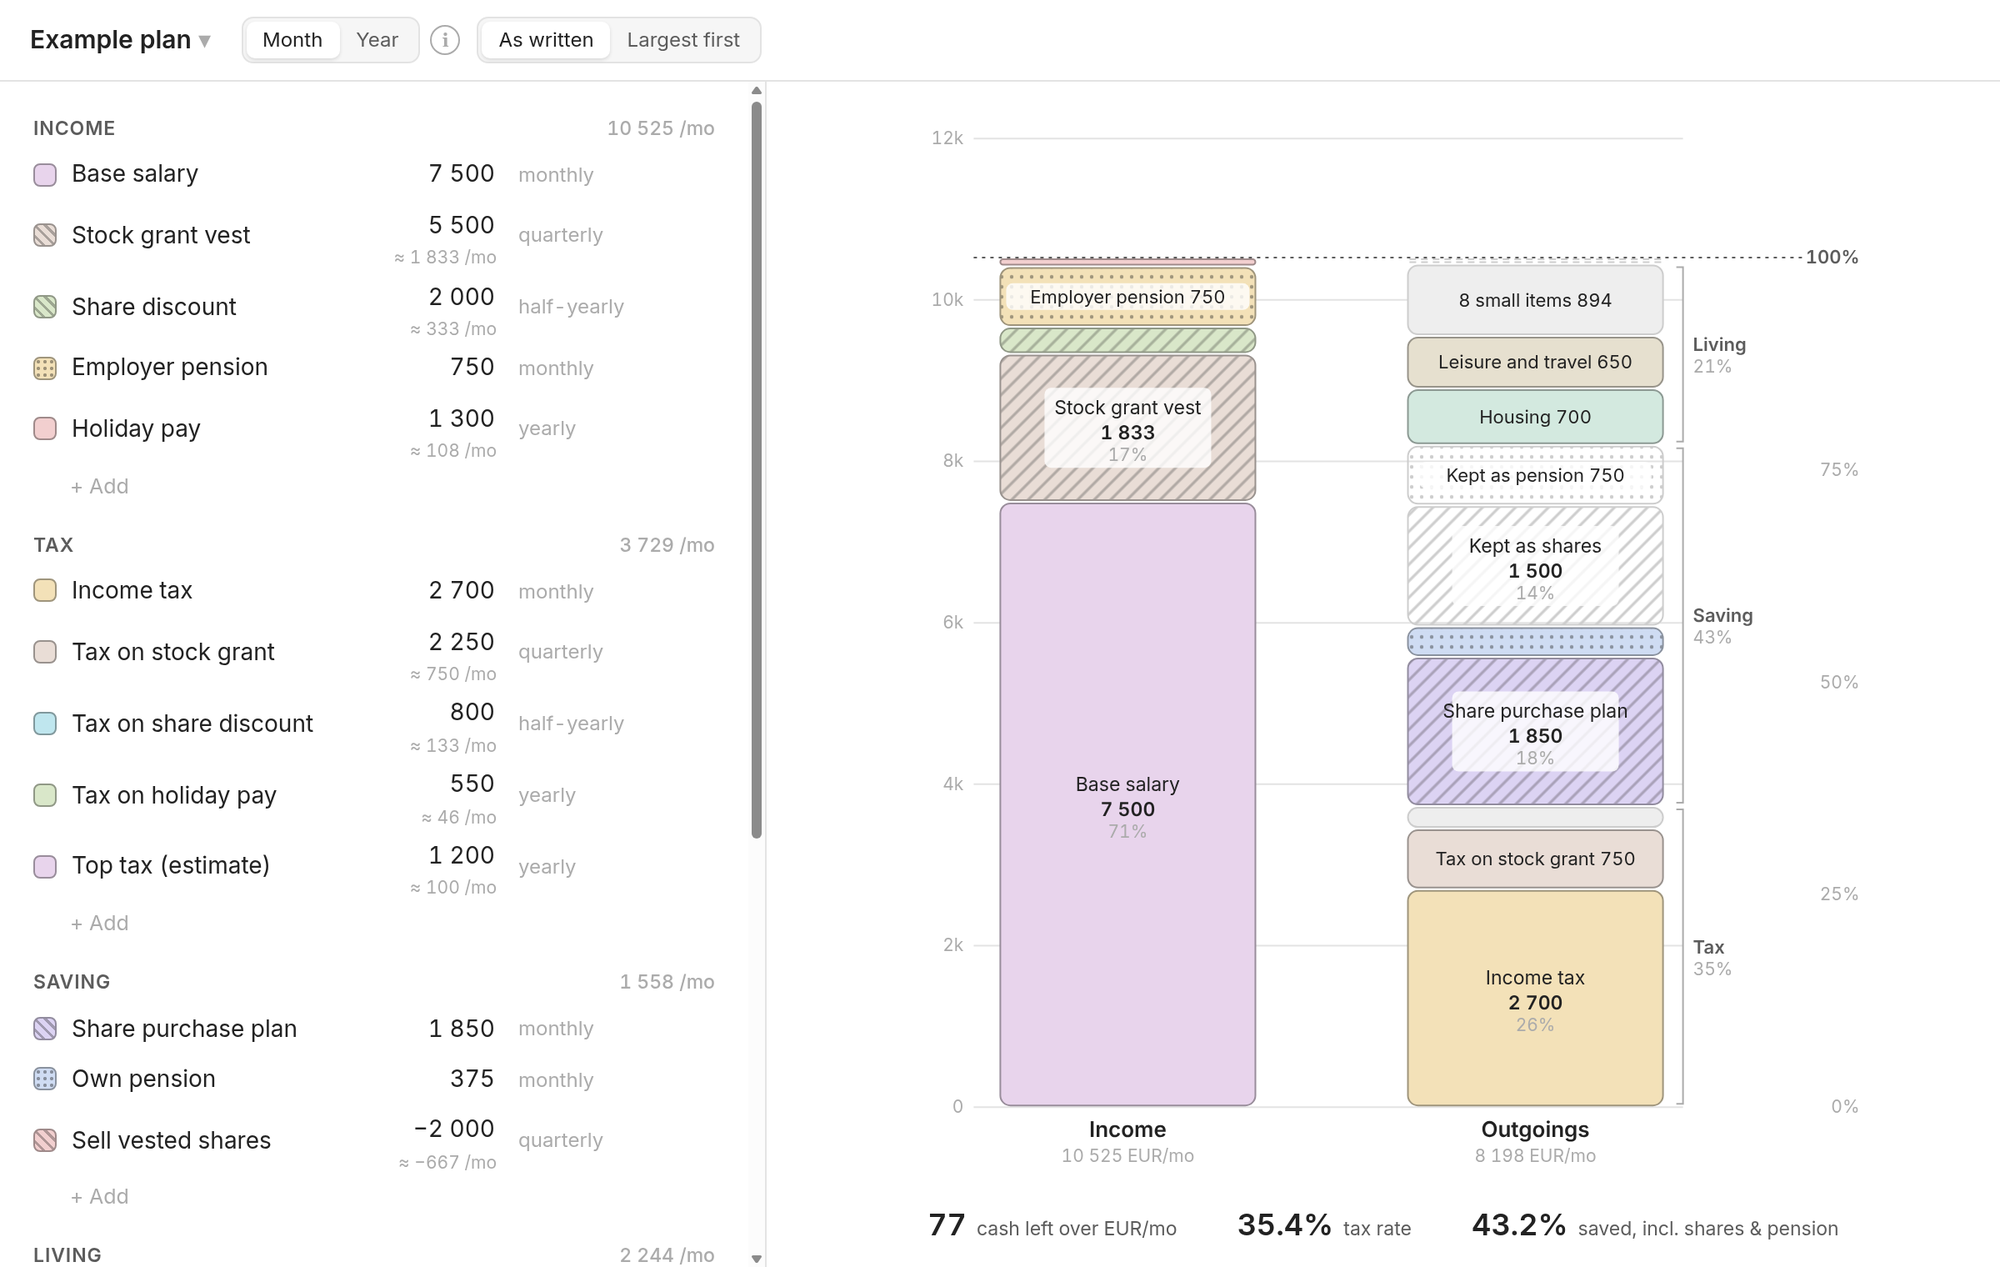
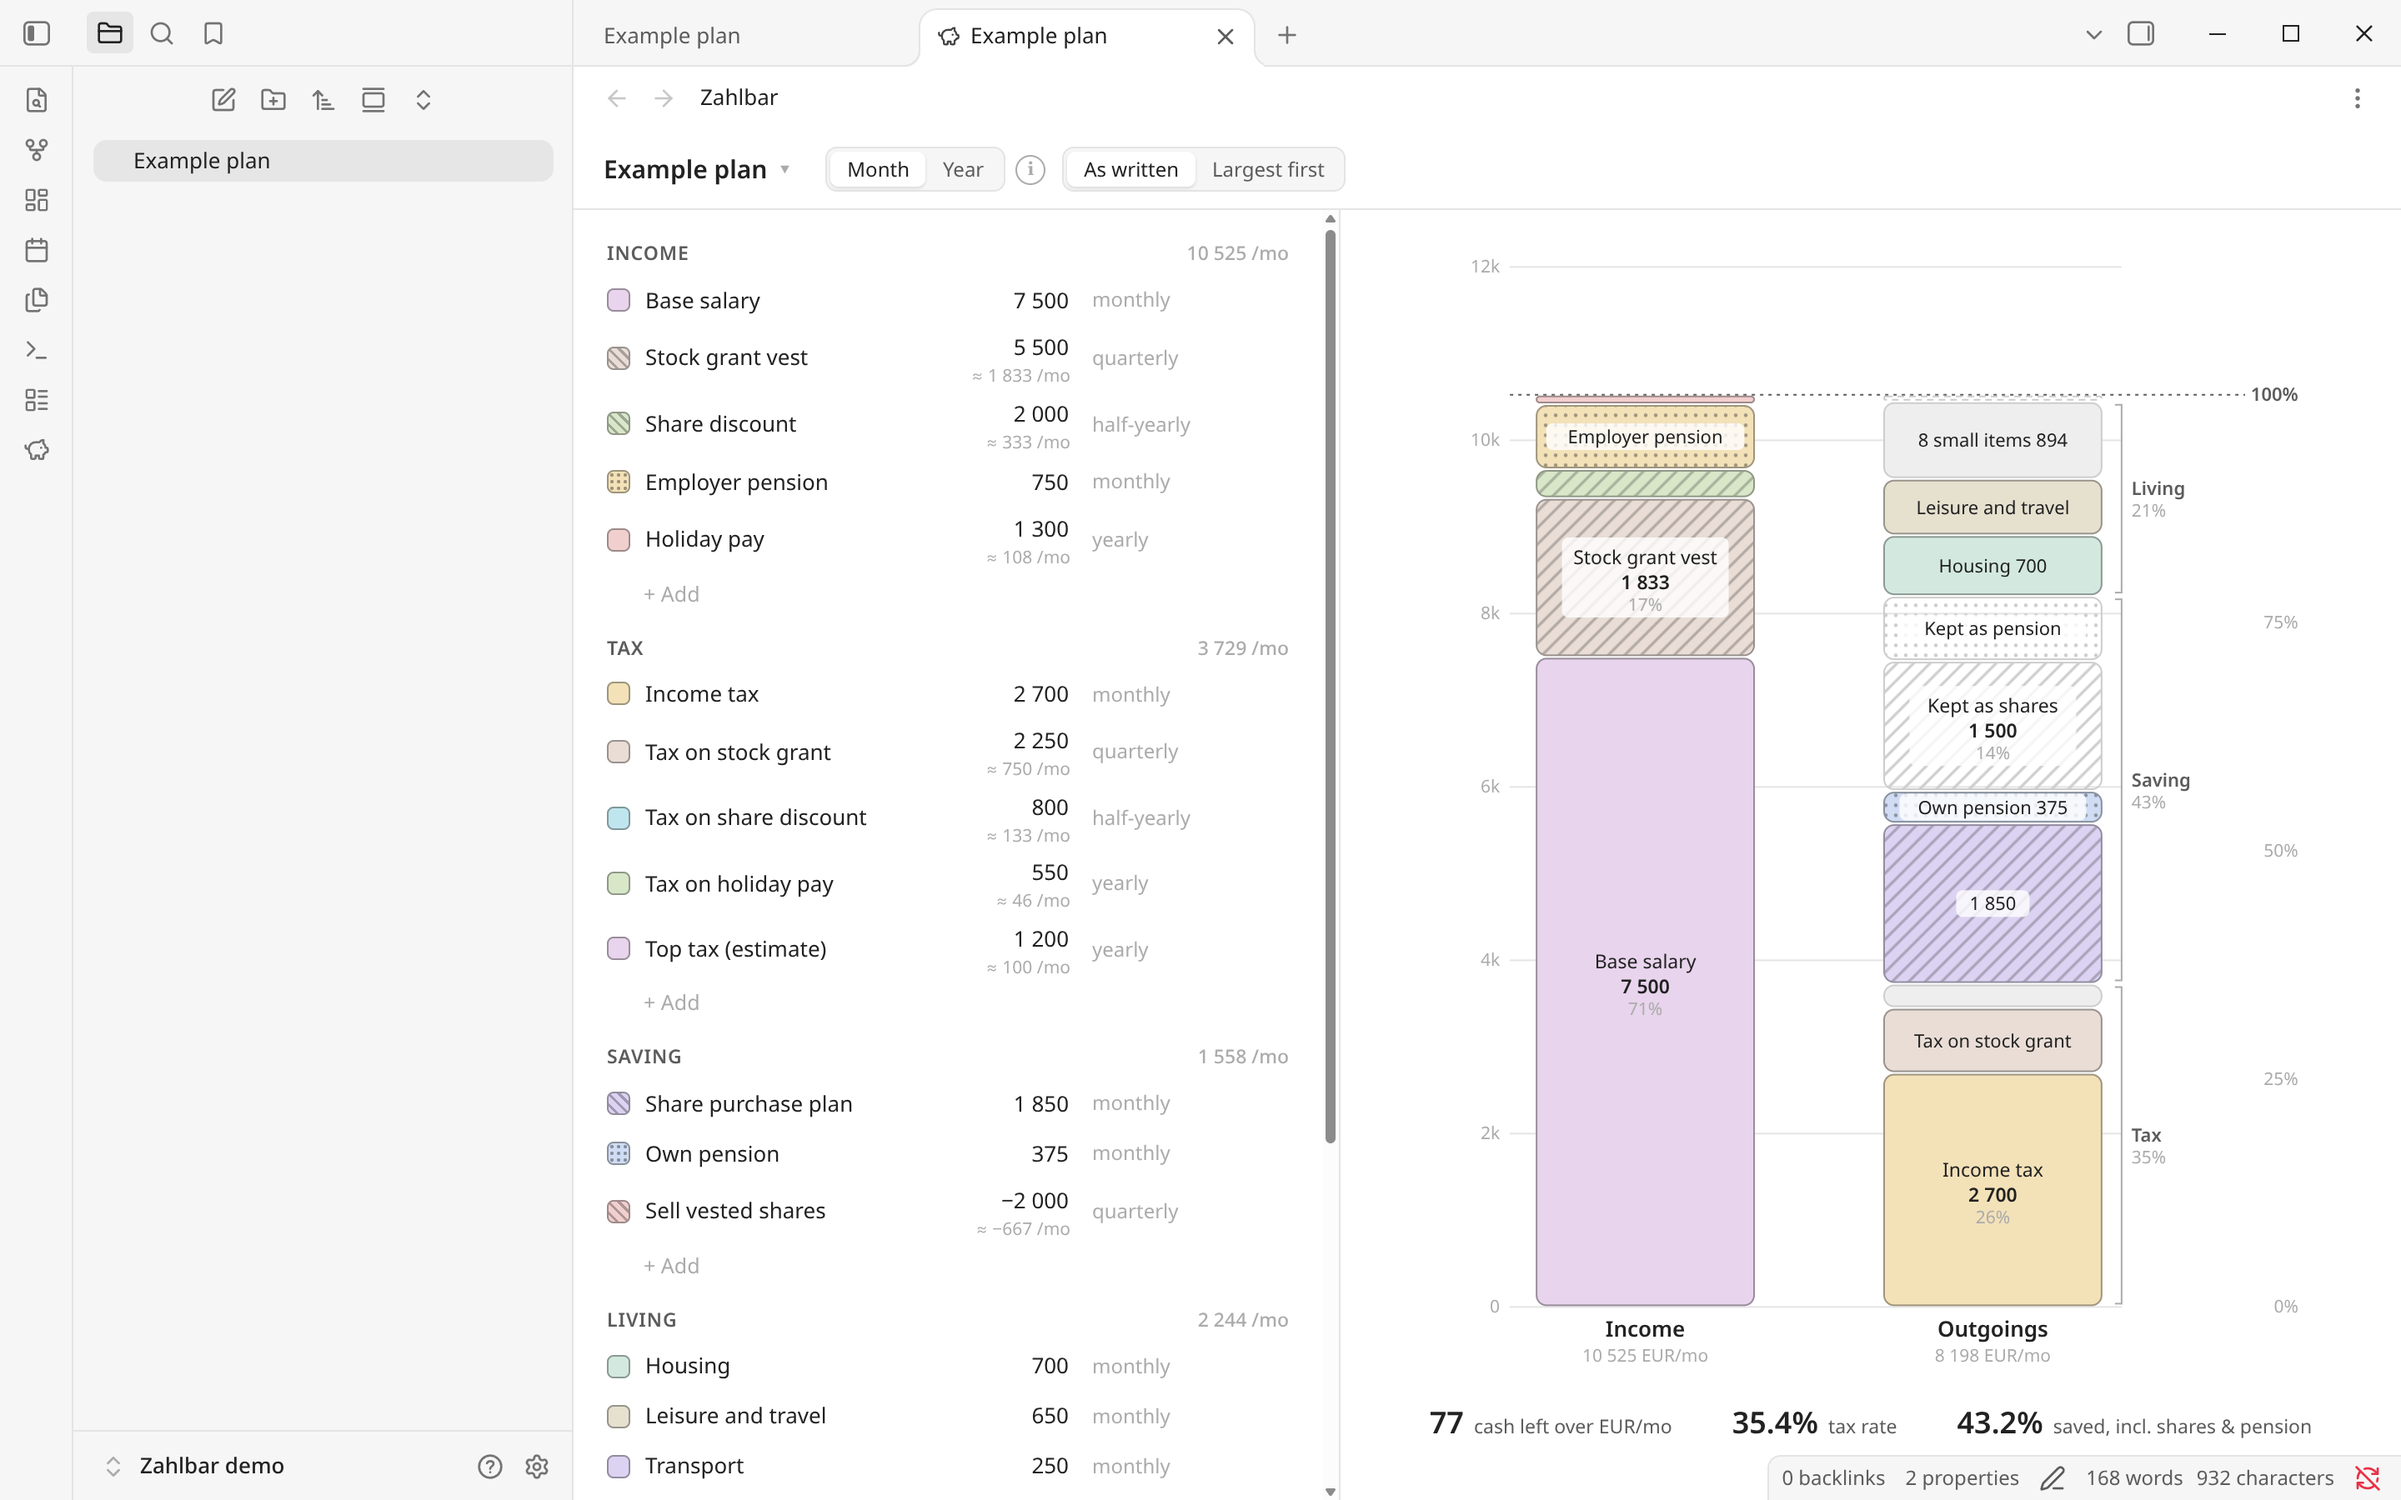
README screenshots from Obsidian, keep metrics clear of the status bar

diff --git a/styles.css b/styles.css
@@ -127,7 +127,8 @@ body.zahlbar-grabbing, body.zahlbar-grabbing * { cursor: grabbing !important; us
 .zahlbar-chart .zahlbar-plate { fill: var(--background-primary); opacity: 0.8; }
 .zahlbar-chart .zahlbar-seg { cursor: pointer; transition: opacity 0.12s; }
 .zahlbar-chart.is-dimming .zahlbar-seg:not(.is-hl) { opacity: 0.35; }
-.zahlbar-metrics { display: flex; flex-wrap: wrap; justify-content: center; gap: 6px 36px; padding: 10px 22px 12px; }
+/* bottom padding keeps the metrics clear of Obsidian's floating status bar */
+.zahlbar-metrics { display: flex; flex-wrap: wrap; justify-content: center; gap: 6px 36px; padding: 10px 22px 34px; }
 .zahlbar-metric b { font-size: 18px; font-weight: 600; margin-right: 6px; }
 .zahlbar-metric span { font-size: 11.5px; color: var(--text-muted); }
 .zahlbar-metric.is-neg b { color: var(--text-error); }

diff --git a/README.md b/README.md
@@ -2,7 +2,10 @@
 
 An Obsidian plugin for planning where your money goes. You write recurring income and outgoings in a plain Markdown note, and Zahlbar draws them as two stacked bars, **Income** and **Outgoings**, per month or per year.
 
-![Zahlbar showing the example plan](docs/screenshot-light.png)
+<picture>
+  <source media="(prefers-color-scheme: dark)" srcset="docs/screenshot-dark.png">
+  <img alt="Zahlbar in Obsidian, showing the example plan" src="docs/screenshot-light.png">
+</picture>
 
 It is a forward-looking plan, not a ledger. There are no transactions, no bank import and no network calls. Your figures stay in your vault.
 
